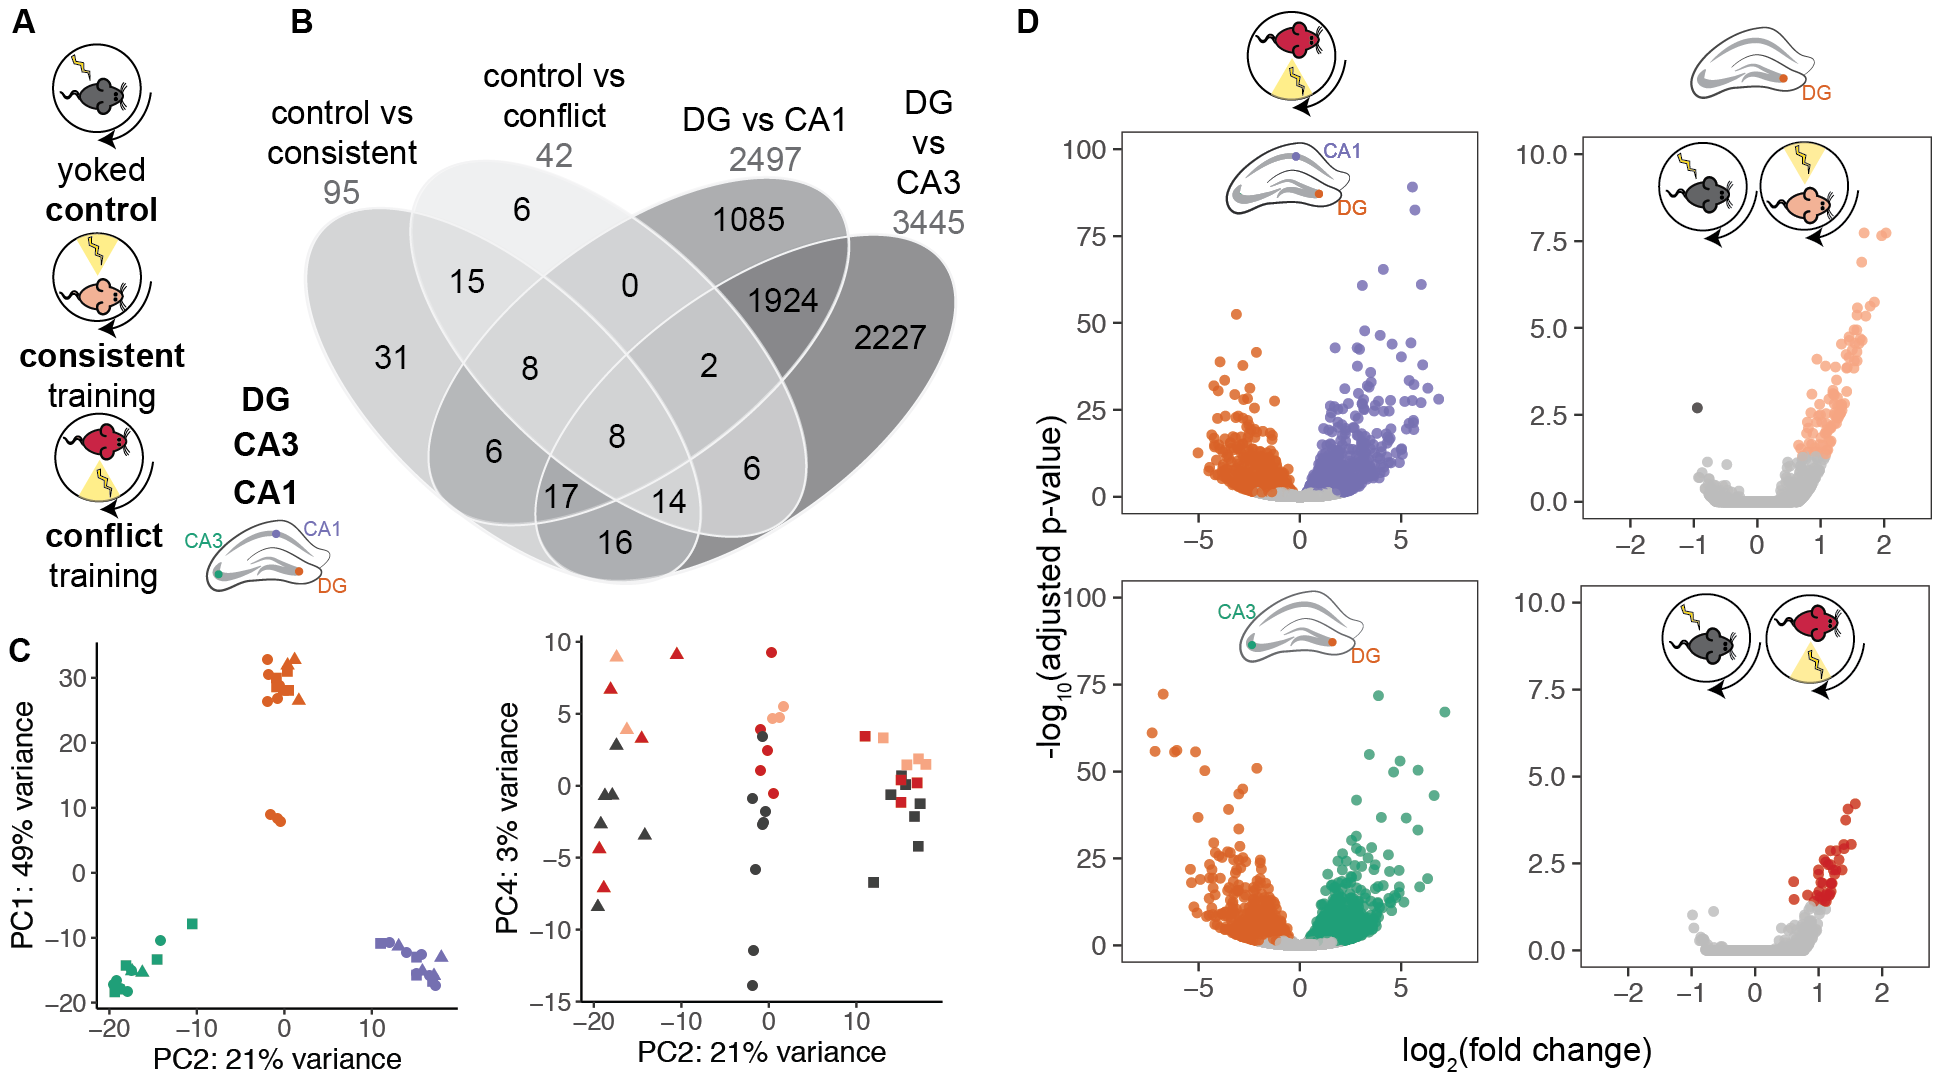
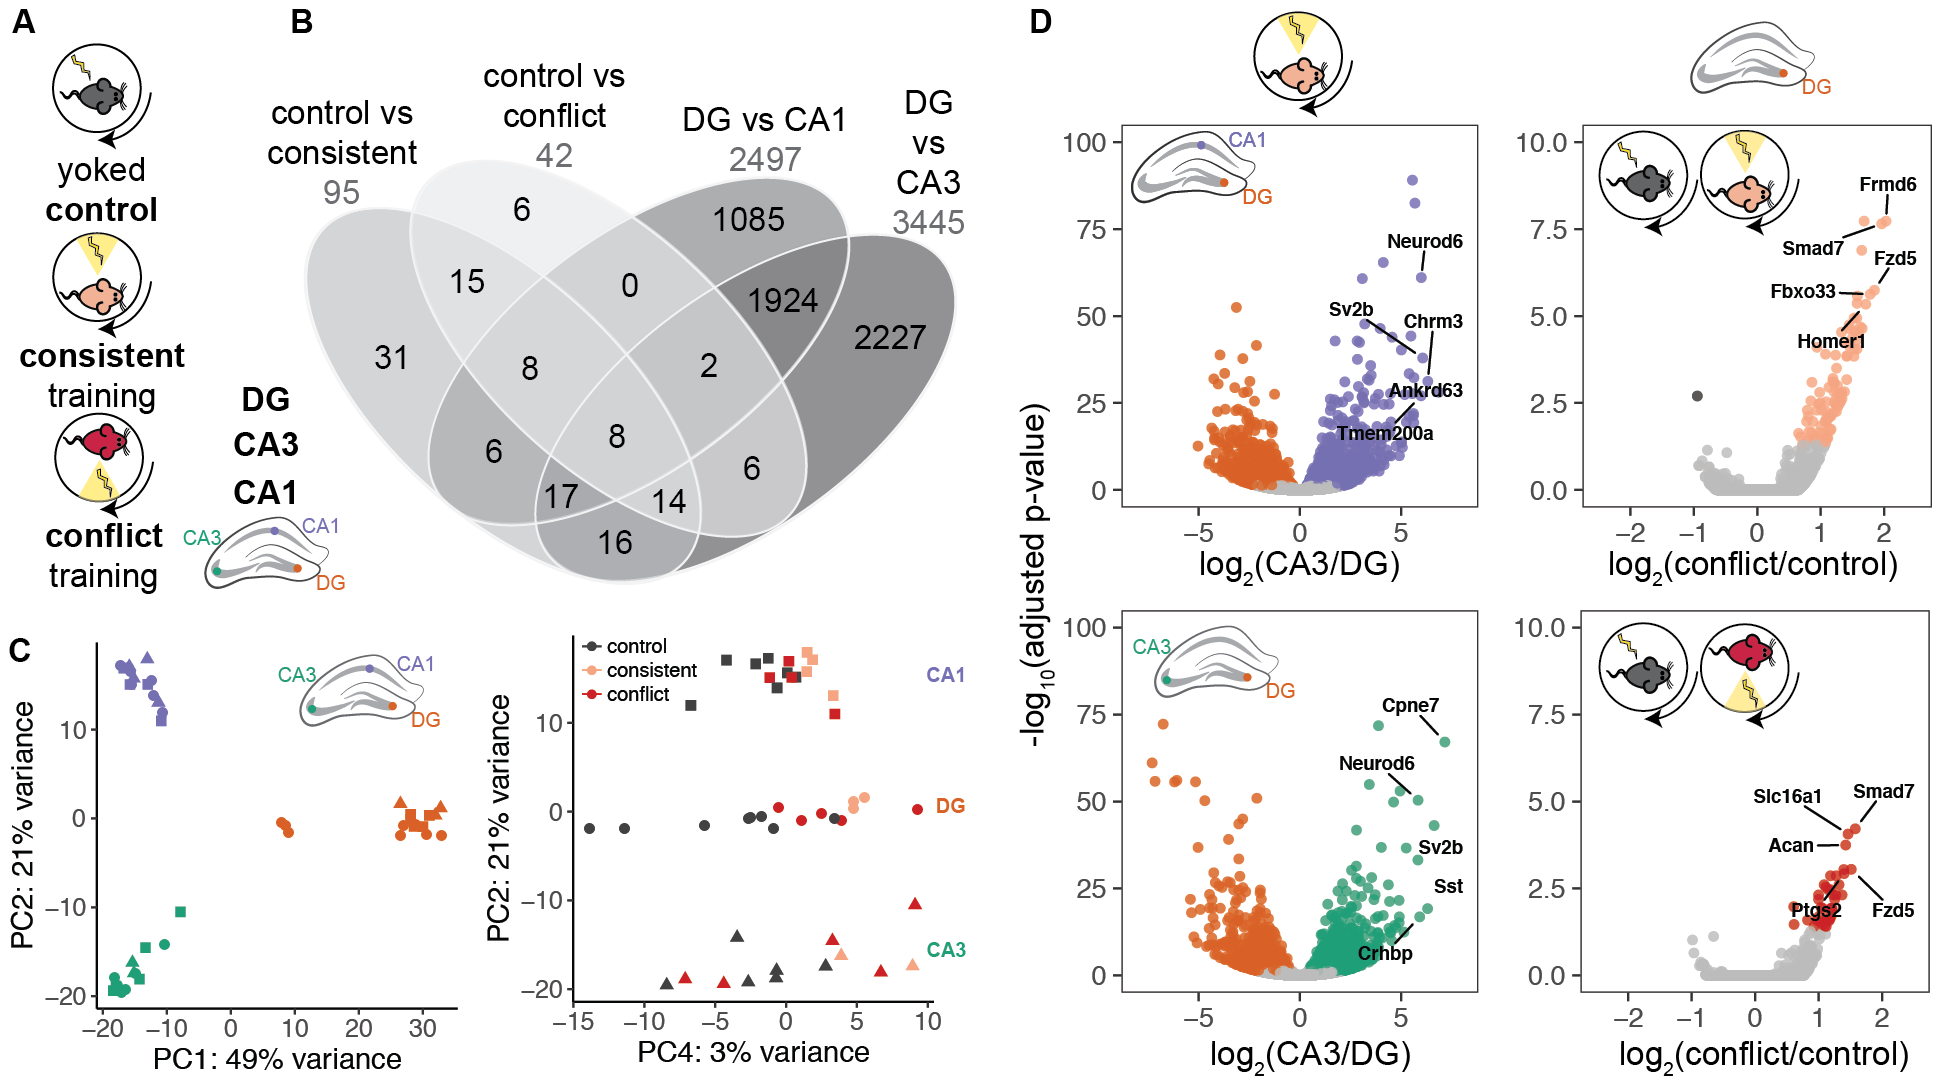
not sure

diff --git a/RmdFiles/02b_rnaseq_makefigures.md b/RmdFiles/02b_rnaseq_makefigures.md
@@ -213,7 +213,7 @@ Heatmaps
 
     # pdf the same pca plots descripbed above of the above
     pdf(file="../figures/02_RNAseq/PCA12.pdf", width=4.5, height=3)
-    PCA12 <- plotPCs(pcadata, 2, 1, aescolor = pcadata$Punch, colorname = " ", aesshape = pcadata$APA, shapename = " ",  colorvalues = colorvalPunch)
+    PCA12 <- plotPCs(pcadata, 1, 2, aescolor = pcadata$Punch, colorname = " ", aesshape = pcadata$APA, shapename = " ",  colorvalues = colorvalPunch)
     plot(PCA12)
 
     ## Don't know how to automatically pick scale for object of type data.frame. Defaulting to continuous.
@@ -225,7 +225,7 @@ Heatmaps
     ##                 2
 
     pdf(file="../figures/02_RNAseq/PCA25.pdf", width=4.5, height=3)
-    PCA25 <- plotPCs(pcadata, 2,4, aescolor = pcadata$APA, colorname = " ", aesshape = pcadata$Punch, shapename = " ",  colorvalues = colorvalAPA)
+    PCA25 <- plotPCs(pcadata, 4,2, aescolor = pcadata$APA, colorname = " ", aesshape = pcadata$Punch, shapename = " ",  colorvalues = colorvalAPA)
     plot(PCA25)
 
     ## Don't know how to automatically pick scale for object of type data.frame. Defaulting to continuous.
